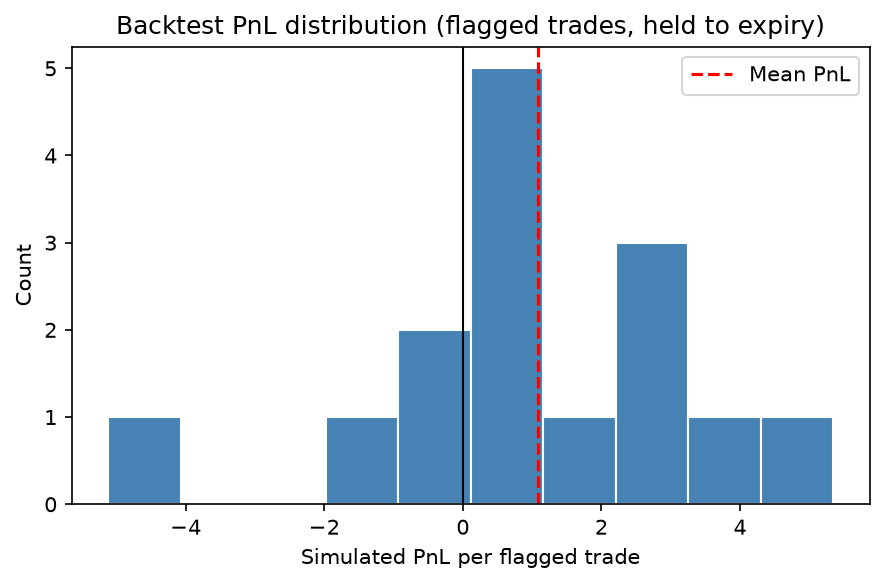
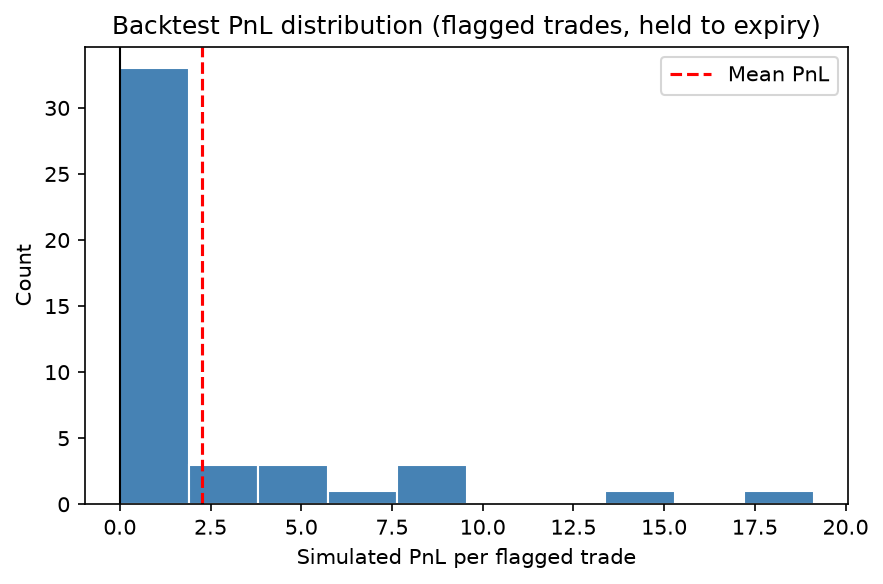
Switch to live yfinance data

diff --git a/main.py b/main.py
@@ -5,6 +5,8 @@ data_fetch.get_spy_option_chains() for a real run (see README).
 """
 
 import matplotlib
+
+from data_fetch import get_spy_option_chains
 matplotlib.use("Agg")
 import matplotlib.pyplot as plt
 import numpy as np
@@ -14,11 +16,11 @@ from analysis import add_implied_vols, fit_smile_and_flag
 from backtest import run_backtest
 
 # swap this line for: from data_fetch import get_spy_option_chains as _get_data
-USE_REAL_DATA = False
+USE_REAL_DATA = True
 
 
 def main():
-    raw = generate_synthetic_chain() if not USE_REAL_DATA else None
+    raw = generate_synthetic_chain() if not USE_REAL_DATA else get_spy_option_chains()
     with_iv = add_implied_vols(raw)
     flagged = fit_smile_and_flag(with_iv)
     trades, summary = run_backtest(flagged)
